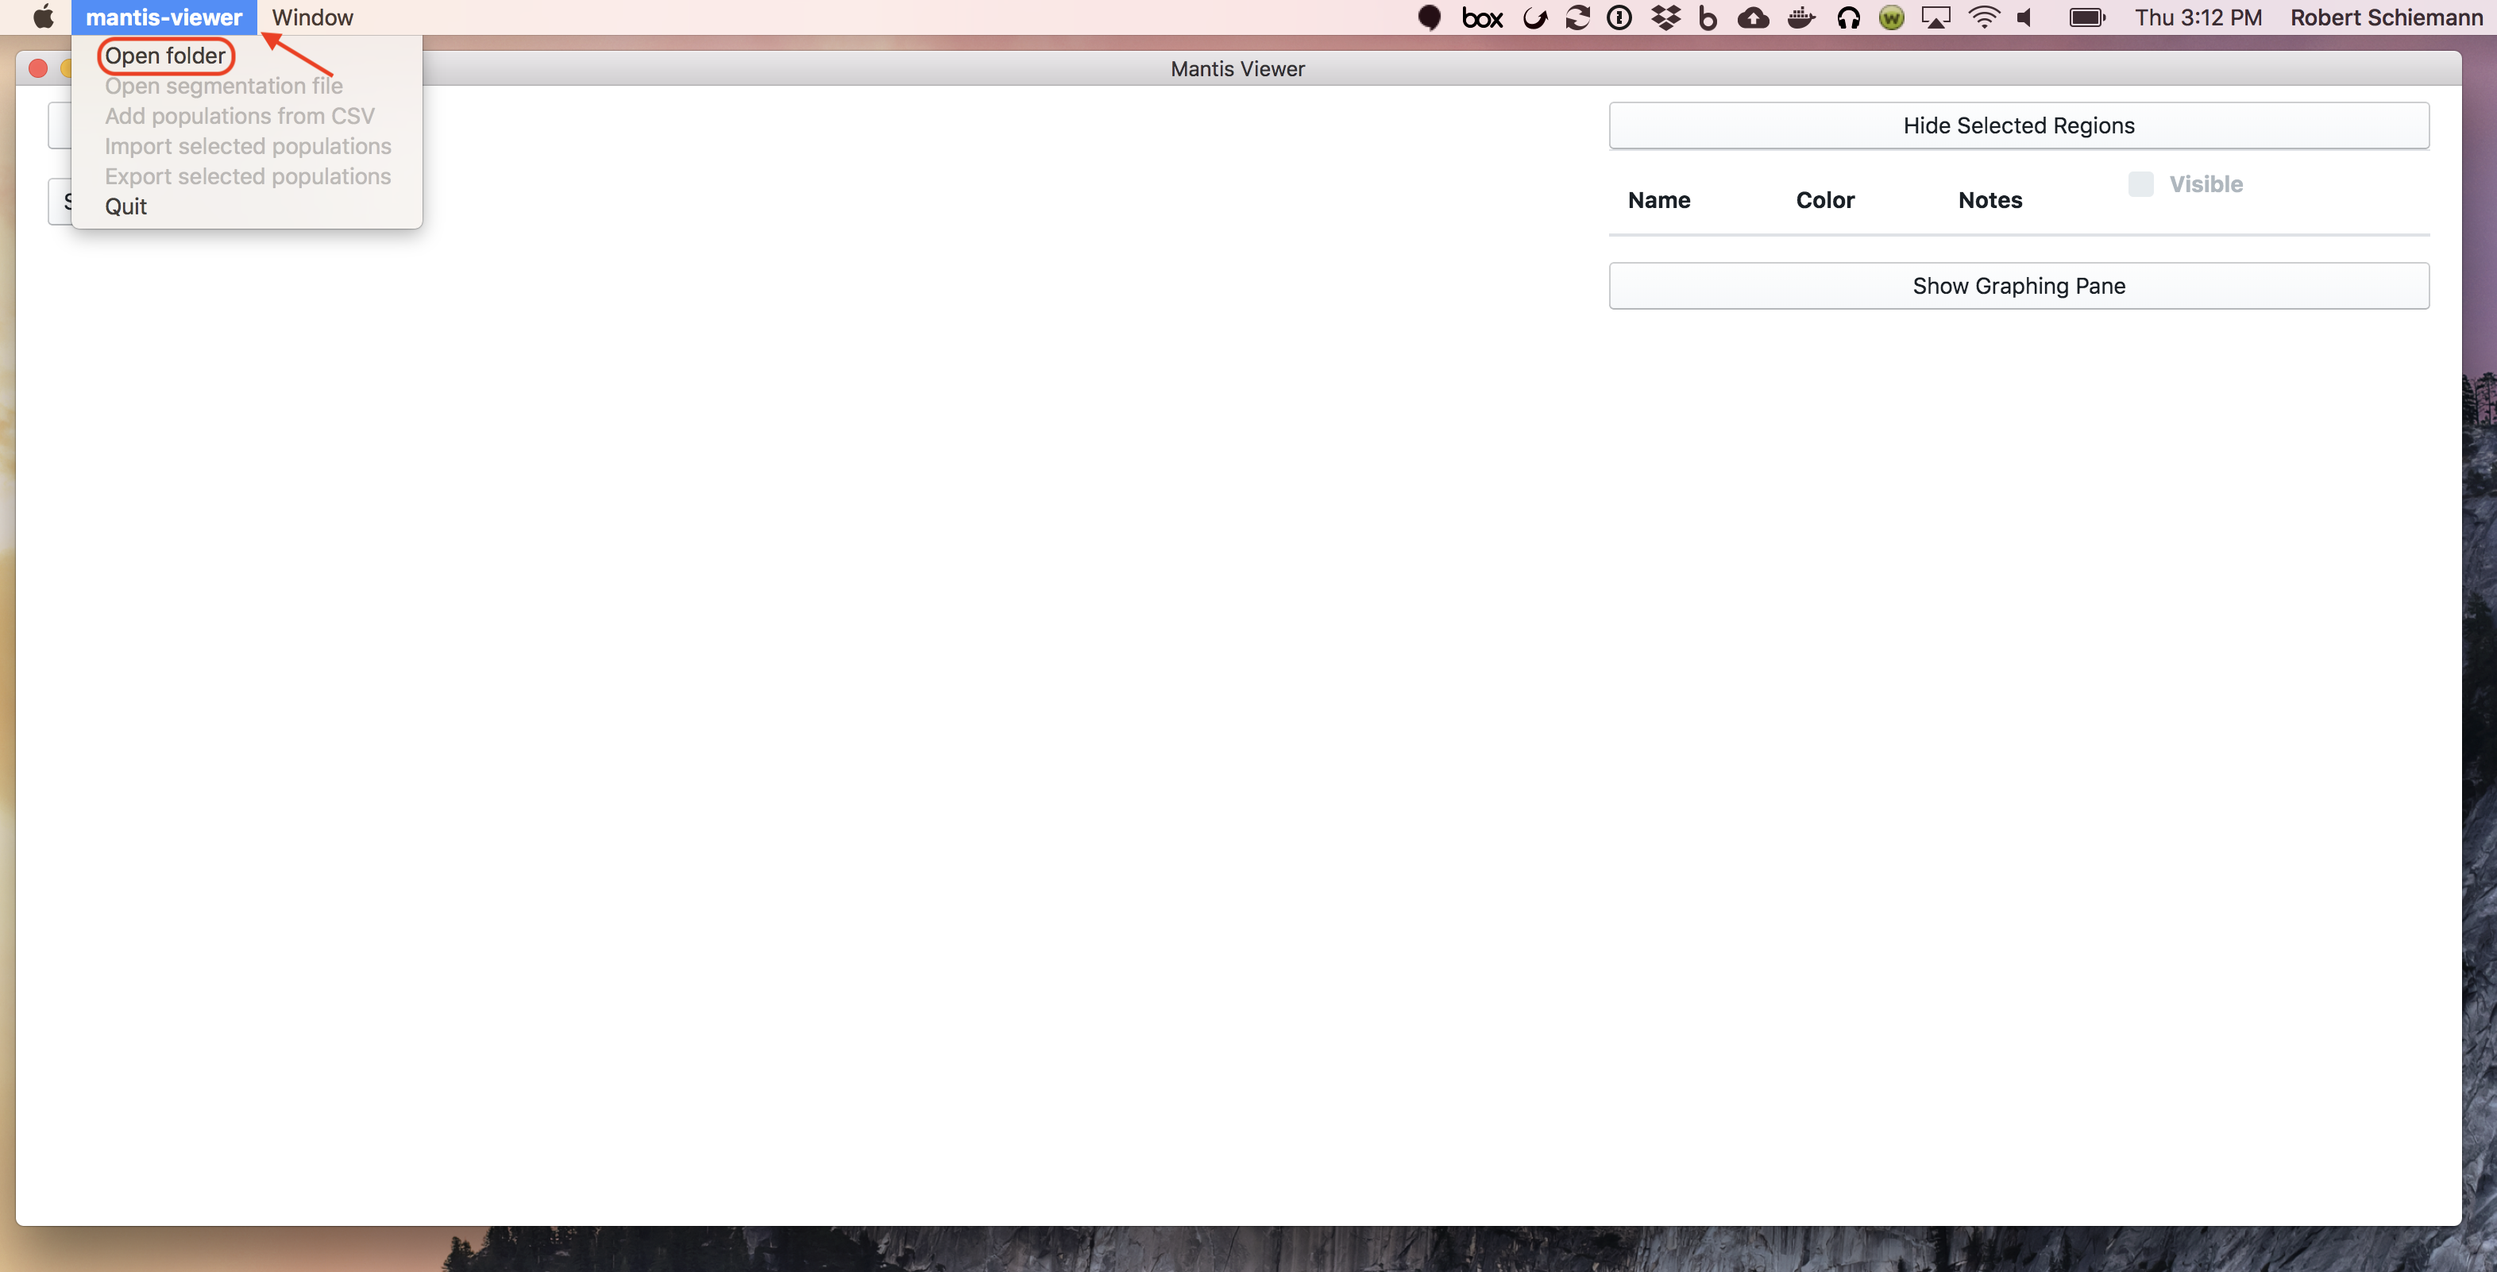
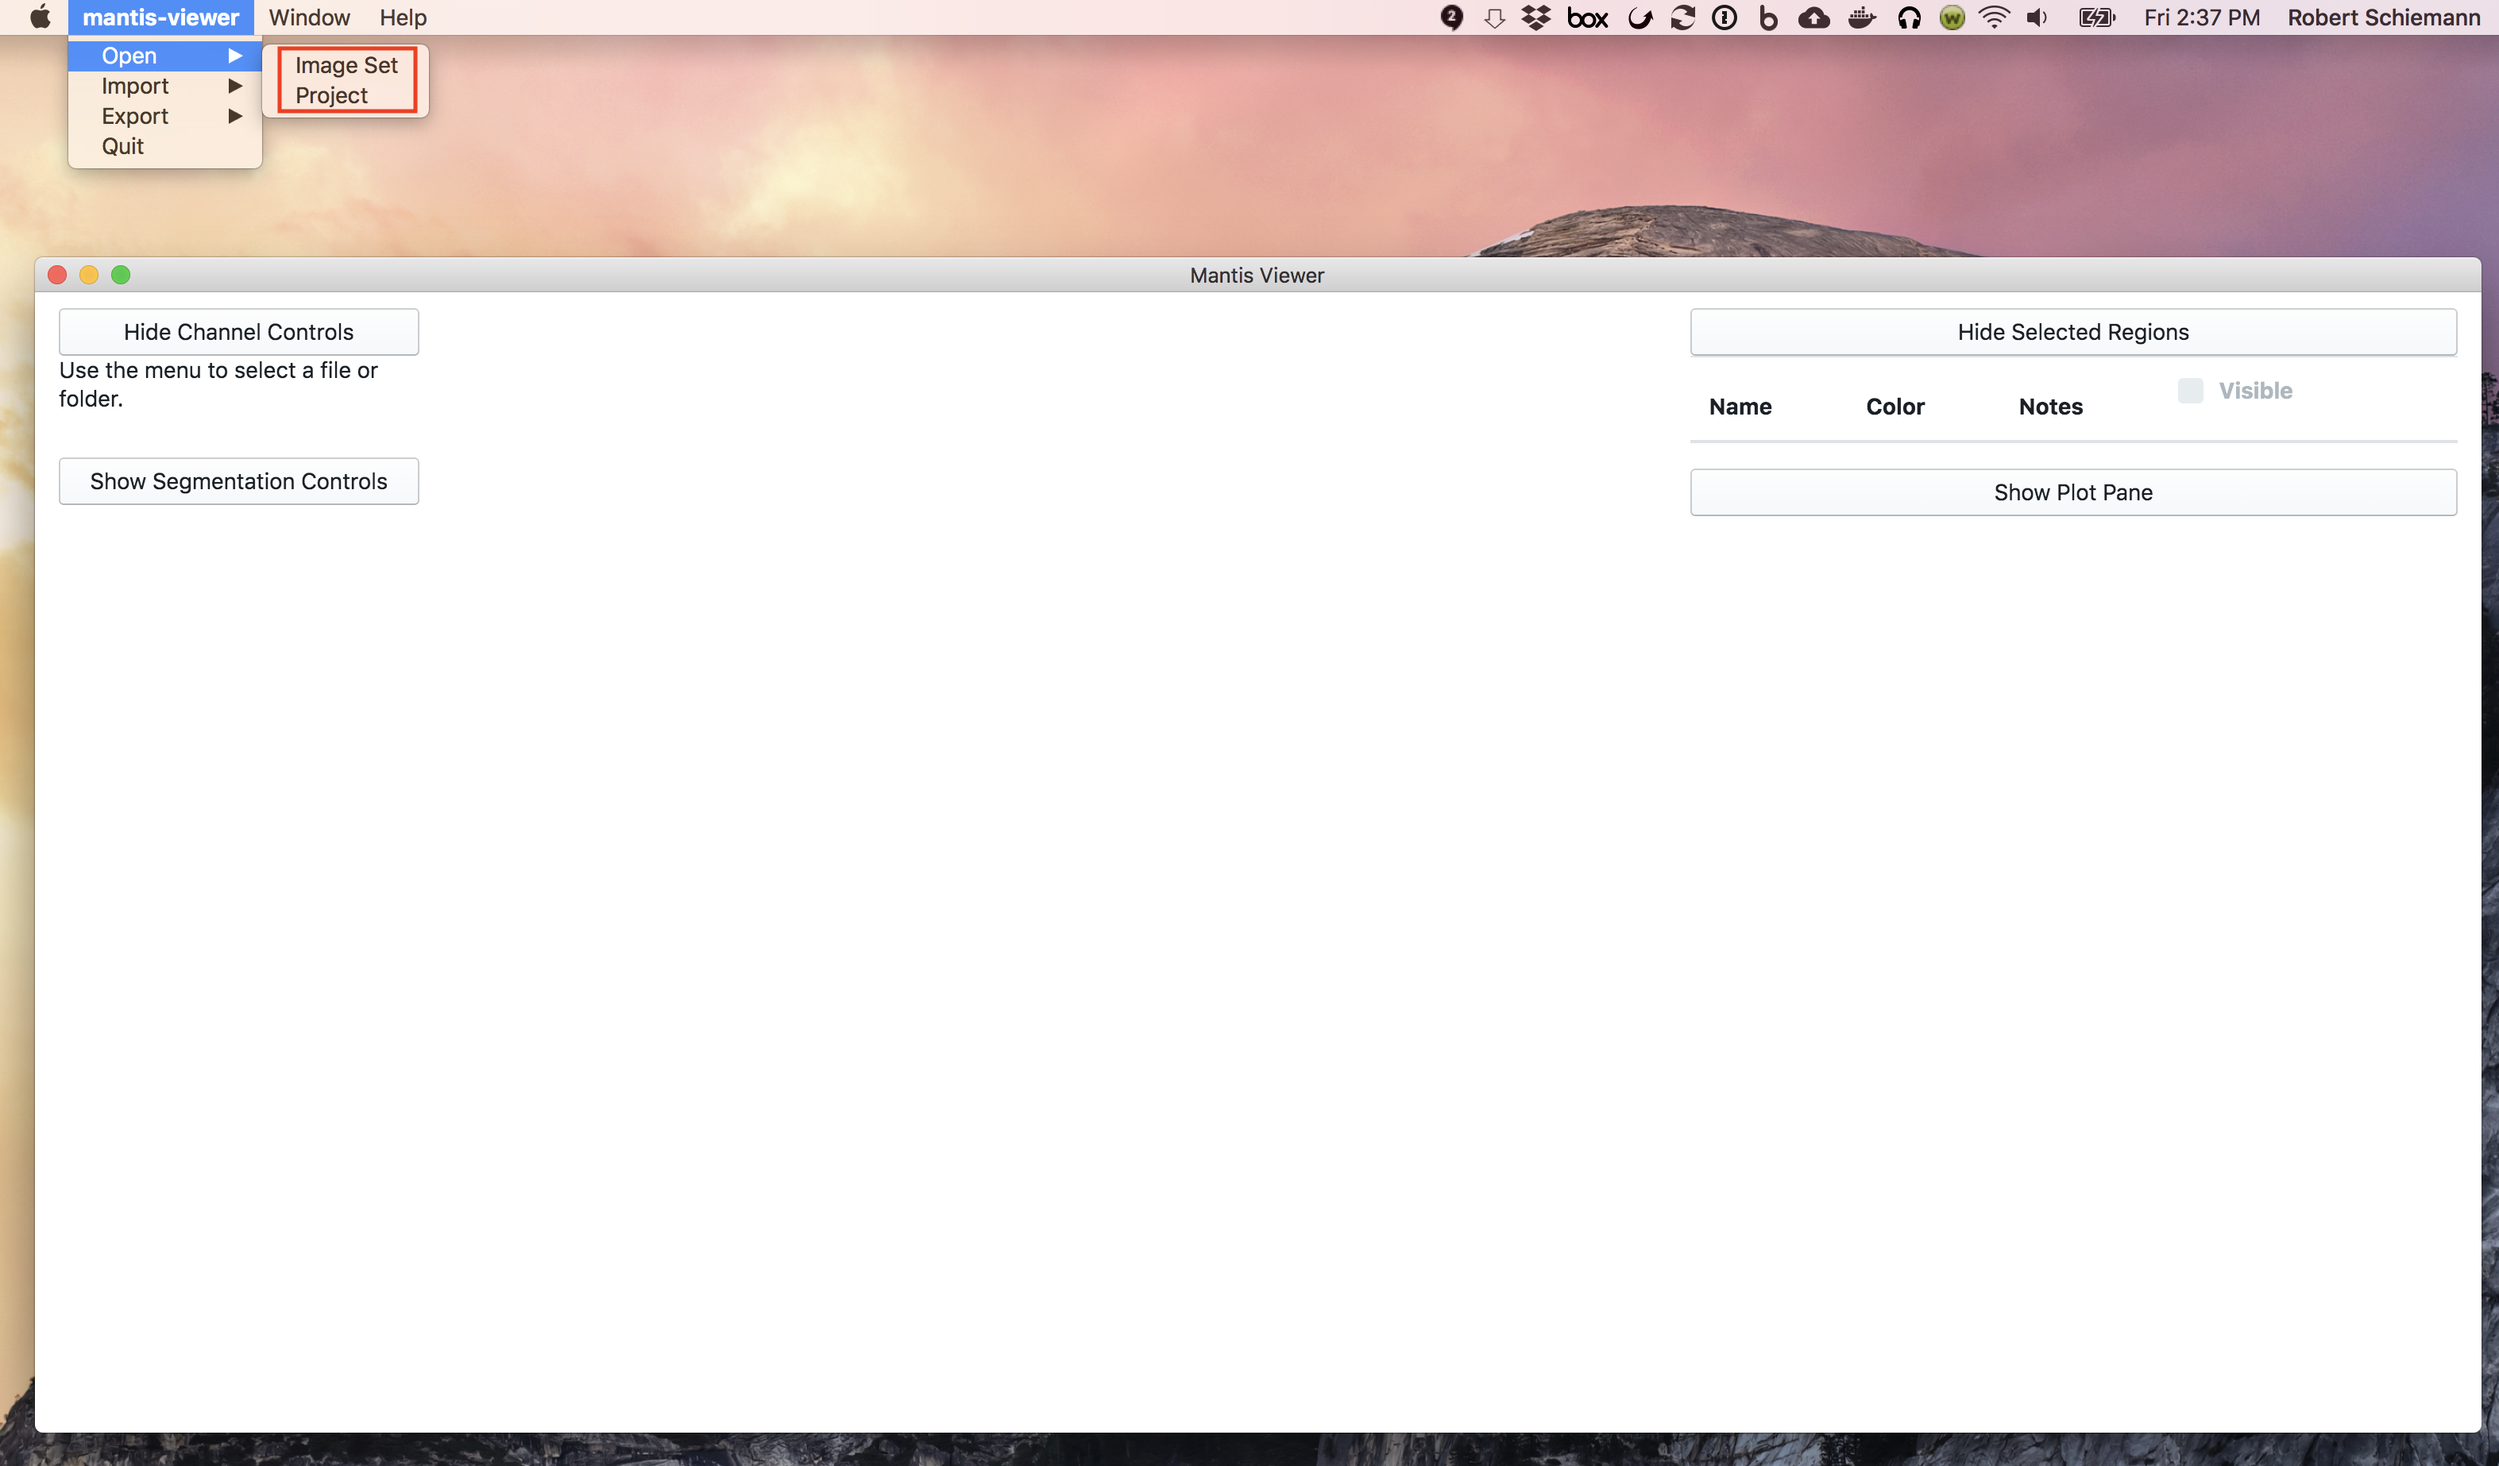
Updated tutorial

diff --git a/docs/tutorial.md b/docs/tutorial.md
@@ -2,11 +2,19 @@
 
 ## Getting started! ##
 
-When you first load the application you should see a blank screen with a few unpopulated controls. Click the menu item named `mantis-viewer`, and then select `Open Folder`.
+When you first load the application you should see a blank screen with a few unpopulated controls. Click the menu item named `mantis-viewer`, and then select `Open`.
 
 ![Application Load](./images/tutorial/application_load.png)
 
-Mantis Viewer expects one folder with multiple images (one per channel) all stored as TIFFs.
+In the `Open` submenu you should see option for `Image Set` and `Project`. For an `Image Set`, Mantis Viewer expects one folder with multiple images (one per channel) all stored as TIFFs. For a `Project` Mantis Viewer expects a folder containing multipe image sets.
+
+## Switching Between Image Sets ##
+
+If you have loaded a project you can switch between the image sets in the project by using the dropdown under the title `Selected Image Set`
+
+![Switching Image Sets](./images/tutorial/switching_image_sets.png)
+
+If you want visualization settings (i.e. the selected channels, brightness levels, and segmentation appearance) copied as you switch between image sets then keep the box labeled `Copy Image Set Visualization Settings` checked.
 
 ## Color Controls ##
 
@@ -18,24 +26,13 @@ If you wish to change the channel selected for a color you can click on the drop
 
 You can adjust the brightness of a color by changing the min and max values on the slider below the color dropdown. The min and max values are set using the pixel intensities from the channel's TIFF. Brihtness adjustments are achieved by means of a linear transform.
 
-## Additional Menu Items ##
-
-Additional menu items will be activated in the main menu once channels have been loaded. 
-
-![Additional Menu Items](./images/tutorial/menu_options_images_loaded.png)
-
-You should see the following menu items enabled:
-
-* `Open Segmentation File`
-* `Add populations from CSV`
-* `Import selected populations`
-* `Export selected populations`
-
-These items will be discussed in subsequent sections.
-
 ## Segmentation Data ##
 
-You can load segmentation data by clicking the `Open Segmentation File` entry in the main menu. Mantis Viewer expects segmentation data to be loaded as a TIFF where pixels not belonging to a segment have a 0 value, and where pixels belonging to a segment have a numerical segment id as their value.
+You can load segmentation data by hovering over `Import` and then `Segmentation` entries in the main menu. From here you can load segmentation data either `For active image set` or `For project`. If you select `For active image set` it will only load segmentation for the image set you are currently vewing. If you select `For project` it will attempt to find segmentation files with the same filename as the file you select in all of the open image sets.
+
+![Segmentation Menu](./images/tutorial/segmentation_menu.png)
+
+ Mantis Viewer expects segmentation data to be loaded as a TIFF where pixels not belonging to a segment have a 0 value, and where pixels belonging to a segment have a numerical segment id as their value.
 
 Once segemntation data has been loaded segment outlines will be overlayed on the image.
 
@@ -73,7 +70,9 @@ If segmentation data has been loaded selected regions will also be displayed on 
 
 ## Adding Populations from CSV ##
 
-Mantis Viewer allows you to import populations, ie from gating using other software. Using the main menu item `Add populations from CSV` you can add populations from a CSV file. The CSV file should have no header, and each row should be of the format `segment_id, population_name`. For example, here are a few rows from a valid population CSV file:
+Mantis Viewer allows you to import populations (i.e. from gating using other software). Using the main menu item `Import` then `Populations` then `For Active Image Set from CSV` you can add populations from a CSV file. Note that this menu item will be disabled unless segmentation data has been loaded for the currently active image set.
+
+The CSV file selected should have no header, and each row should be of the format `segment_id, population_name`. For example, here are a few rows from a valid population CSV file:
 
 ```
 220,CD4 High Cells
@@ -85,6 +84,10 @@ Mantis Viewer allows you to import populations, ie from gating using other softw
 
 ## Importing and Exporting Populations ##
 
-You can save your selected regions and populations for use later by selecting the main menu item `Export selected populations` and saving the selected populations in a file.
+You can save your selected regions and populations for use later by selecting the main menu item `Export` and then `Populations`. You can either export for the currently active image set by selecting `For active image set to JSON` or for all of the open image sets in a project by selecting `For project to JSON`. If you select `For project to JSON` it will ask you to save for the currently active image set, but it will also create and export to a file with the same name in the base directory of every image set with populations. Note that these menu options will only be enabled when you have selected populations for the currently active image set. 
 
-You can reload exported populations at a later time by selecting the main menu item `Import selected populations` and selecting a file that you previously exported.
+You can reload exported populations at a later time by selecting the main menu item `Import` and then `Populations`. You can either import for the currently active image set by selecting `For active image set from JSON` or for all of the open image sets in a project by selecting `For project from JSON`. Importing for a project from JSON files works the same way as exporting: you select a JSON file for the currently active image set, and the application will look for JSON files with the same name in all of the base directories for every loaded image set.
+
+## Exporting the Current Image with Layers ##
+
+You can export the current image with layers from the main menu by selecting `Export` then `Image` then `Current Image and Layers`.
